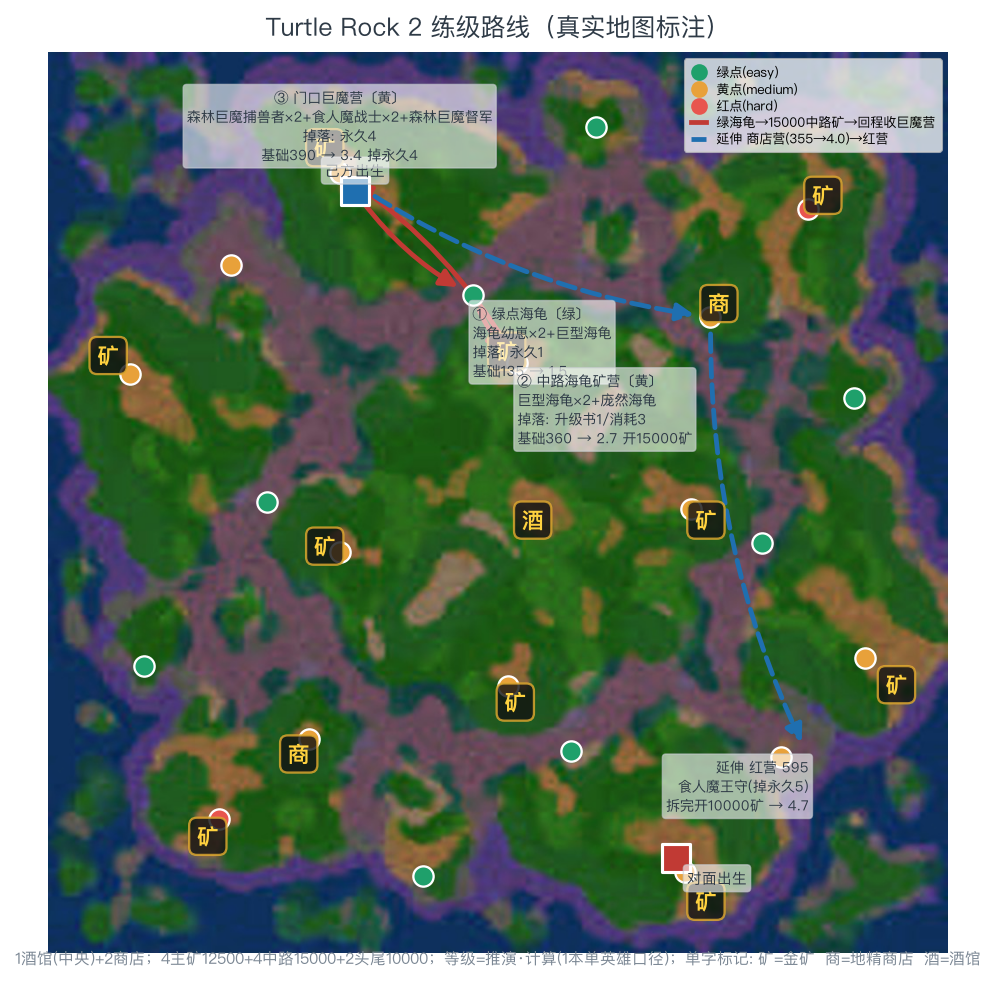
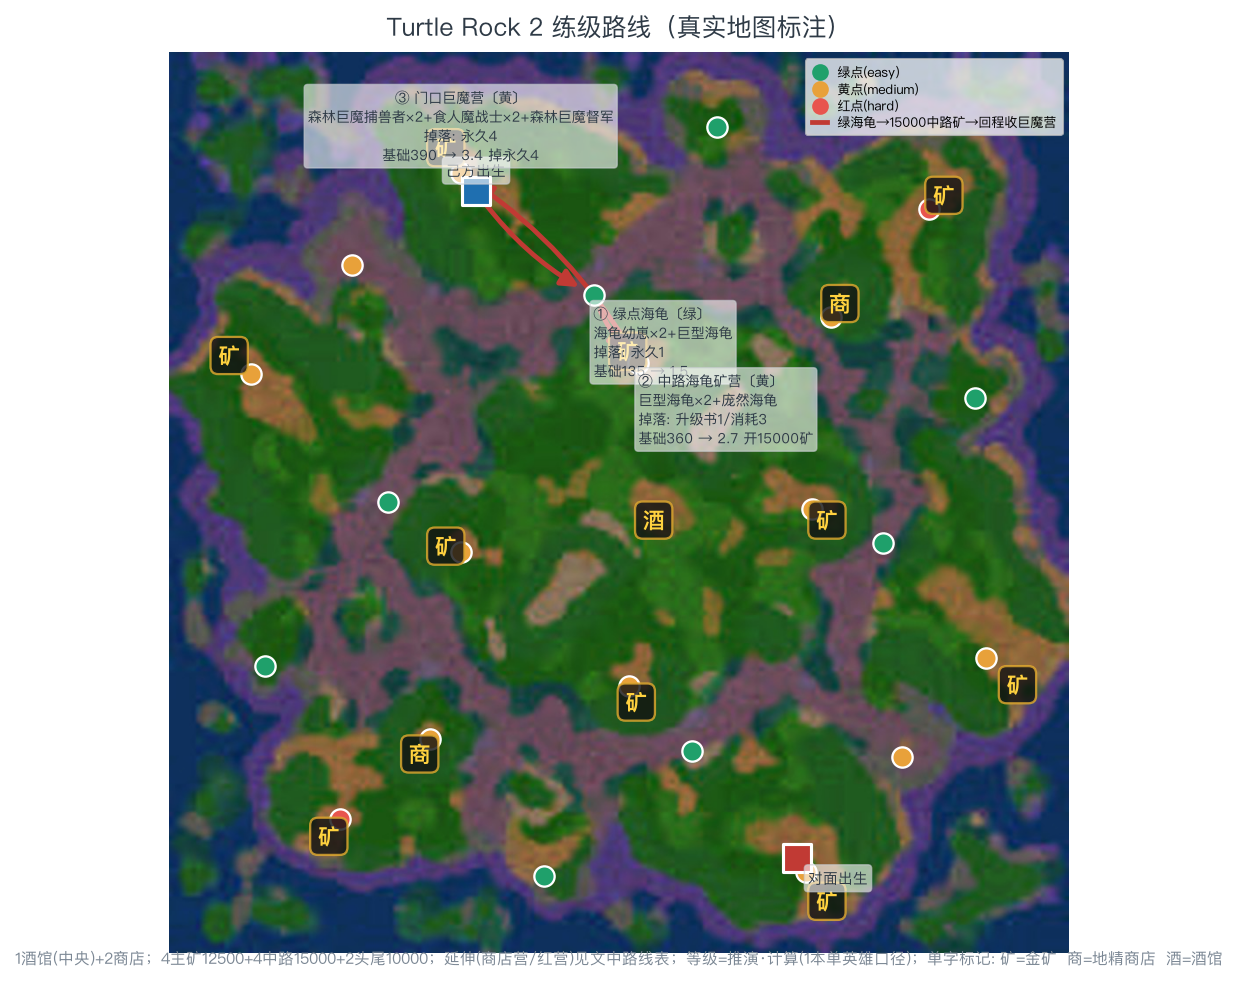
war3: LT2 坐标系修正(可玩区124格,经wc3maps官方minimap图标逐一校正——旧版全图136致整体偏移); TR2/LT2 延伸线移除只留主路线

diff --git a/tools/war3-figures.py b/tools/war3-figures.py
@@ -817,7 +817,7 @@ def fig_routes():
         note="1酒馆+2实验室+2商店+2雇兵营；等级=推演·计算(1本单英雄口径)")
 
     # ---------------- TR2：Turtle Rock 2（2026-10-25 补录；点位/构成/掉落解析自天梯地图文件，与 Liquipedia Preview 互证）
-    # 路线 v2（10-26 修正）：绿海龟→15000 中路矿→回程收门口巨魔营（v2 已降黄点）；延伸商店营→头尾红营
+    # 路线 v3（10-26 夜）：只保留主路线（用户反馈延伸线太乱已全部移除）；坐标经 wc3maps 官方 minimap_data 图标互证（可玩区 104=half 6656）
     draw_data("tr2", "Turtle Rock 2 练级路线（真实地图标注）",
         my=(0.3413, 0.1539), opp=(0.6971, 0.8941), my_lab=("center", "bottom"), opp_lab=("left", "top"),
         steps=[
@@ -825,40 +825,29 @@ def fig_routes():
             (0.5215, 0.3442, "② 中路海龟矿营", "基础360 → 2.7 开15000矿", "left", "top"),
             (0.3243, 0.1342, "③ 门口巨魔营", "基础390 → 3.4 掉永久4", "center", "bottom"),
         ],
-        extras=[
-            (0.8451, 0.7828, "延伸 红营 595\n食人魔王守(掉永久5)\n拆完开10000矿 → 4.7", "right", "top"),
-        ],
+        extras=[],
         routes=[
             ([(0.3413, 0.1539), (0.4718, 0.2696), (0.5215, 0.3442), (0.3243, 0.1342)], C, "-",
              "绿海龟→15000中路矿→回程收巨魔营"),
-            ([(0.3243, 0.1342), (0.7361, 0.2940), (0.8451, 0.7828)], B, "--",
-             "延伸 商店营(355→4.0)→红营"),
         ],
         legend_loc="upper right",
-        note="1酒馆(中央)+2商店；4主矿12500+4中路15000+2头尾10000；等级=推演·计算(1本单英雄口径)")
+        note="1酒馆(中央)+2商店；4主矿12500+4中路15000+2头尾10000；延伸(商店营/红营)见文中路线表；等级=推演·计算(1本单英雄口径)")
 
     # ---------------- LT2：Lost Temple 2（2026-10-25 补录；点位/构成/掉落解析自天梯地图文件）
-    # 路线 v2（10-26 修正）：豺狼绿→神庙角绿→中央泉水营，回程收门口巨魔营；不再 1 级啃岩石傀儡营
+    # 路线 v3（10-26 夜）：坐标全部换算到可玩区基准(half=7936, 124 格)——旧版误用全图 136 导致整体偏移，已按 wc3maps 官方图标逐一校正；延伸线移除
     draw_data("lt2", "Lost Temple 2 练级路线（真实地图标注）",
-        my=(0.4153, 0.1323), opp=(0.5884, 0.8677), my_lab=("center", "bottom"), opp_lab=("left", "bottom"),
+        my=(0.4073, 0.0968), opp=(0.5968, 0.9032), my_lab=("center", "bottom"), opp_lab=("left", "bottom"),
         steps=[
-            (0.5395, 0.2236, "① 门口绿点·豺狼3-3-1", "基础145 → 1.2", "left", "top"),
-            (0.4213, 0.4215, "② 神庙角绿点", "基础185 → 2.2", "right", "top"),
-            (0.5000, 0.5000, "③ 中央泉水营", "基础520 → 3.3", "right", "top"),
-            (0.3970, 0.1177, "④ 门口巨魔营", "基础405 → 3.9 回程收", "center", "bottom"),
+            (0.5433, 0.197, "① 门口绿点·豺狼3-3-1", "基础145 → 1.2", "left", "top"),
+            (0.4137, 0.4141, "② 神庙角绿点", "基础185 → 2.2", "right", "top"),
+            (0.5, 0.5, "③ 中央泉水营", "基础520 → 3.3", "right", "top"),
         ],
-        extras=[
-            (0.777, 0.3127, "延伸 实验室营 485\n食人魔王守(掉永久5)\n→ 4.0 买飞艇", "right", "top"),
-            (0.9003, 0.1001, "角落红营·强盗黑幼龙 625\n掉永久6", "left", "top"),
-            (0.8884, 0.9029, "角落红营·花岗岩红幼龙 665\n掉消耗6(疑似岛矿,待实测)", "right", "top"),
-        ],
+        extras=[],
         routes=[
-            ([(0.4153, 0.1323), (0.5395, 0.2236), (0.4213, 0.4215), (0.5000, 0.5000)], C, "-",
+            ([(0.4073, 0.0968), (0.5433, 0.197), (0.4137, 0.4141), (0.5, 0.5)], C, "-",
              "豺狼绿→神庙角绿→泉水营"),
-            ([(0.5000, 0.5000), (0.3970, 0.1177)], B, "--",
-             "延伸 回程收门口巨魔营"),
         ],
-        note="2酒馆+2市场+2商店+2实验室+中央生命泉水；12矿全部12500；等级=推演·计算(1本单英雄口径)")
+        note="2酒馆+2市场+2商店+2实验室+中央生命泉水；12矿全部12500；延伸(回程收门口巨魔营/实验室营/角落红营)见文中路线表；等级=推演·计算(1本单英雄口径)")
 
 
 if __name__ == "__main__":
